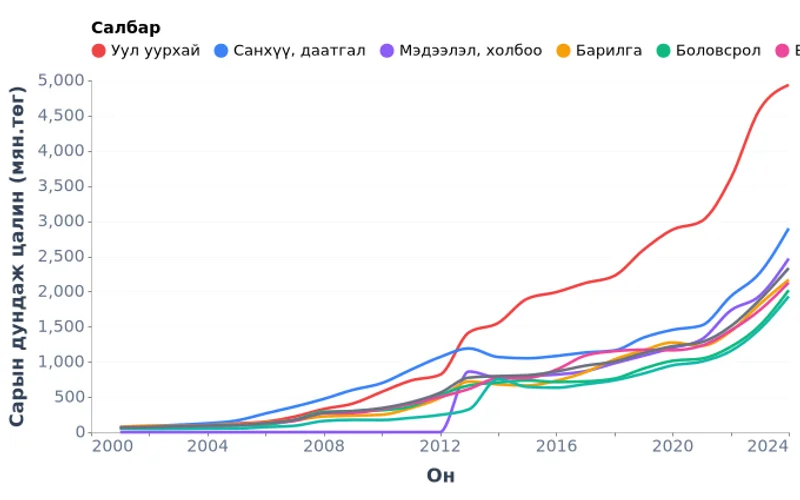
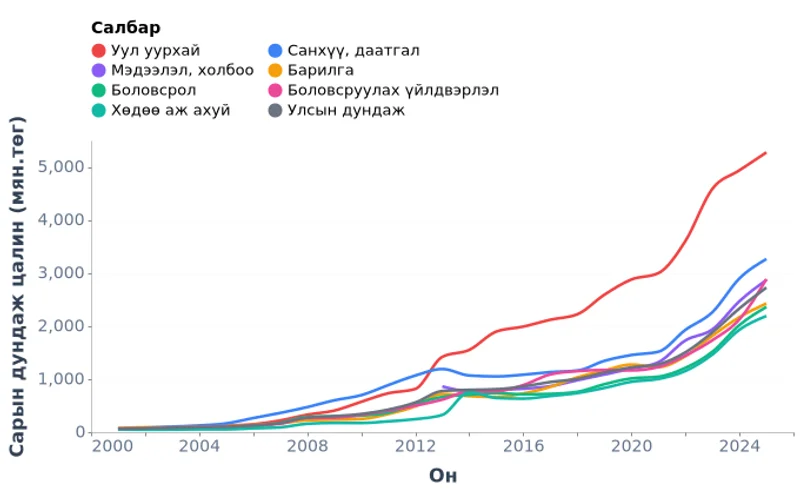
Refresh average-wages to 2025 (v2) (#168)
Regenerated the split from its parent's current raw data
(tools/versions/salary-average-national/v3, SEX=TOTAL; NSO updated
2026-05-04), which salary-average-national already uses:

- 8-sector chart CSVs: 192 -> 200 rows per language; all-sector CSVs:
  528 -> 550. Only 2025 rows were added; every 2001-2024 value matches
  v1 (no revisions). National average 2,726.9 thousand MNT in 2025.
- average-wages.xlsx rebuilt in its current bilingual layout
- EN/MN pages, chart descriptions: 2001-2024 -> 2001-2025;
  dataVersion 2, dataDate 2025-12-31
- Version snapshot tools/versions/average-wages/v2; registry v2 row,
  data_as_of/coverage 2025, update activity
- Definition: 25 years, row counts, the name-keyed group path since the
  2026-09-08 table switch, and the short-label <-> NSO-name mapping

Chart fix: IT & Communication has no data before 2013, but the blank
cells were drawn as 0 (the EN spec didn't parse the salary column as a
number; the MN calculate passed the empty string through). EN now
parses it as a number and MN uses toNumber(), so the line starts in
2013. Thumbnails regenerated for these two charts only.

diff --git a/tools/sources/nso-1212/datasets/average-wages.md b/tools/sources/nso-1212/datasets/average-wages.md
@@ -1,34 +1,56 @@
 # Average Wages by Sector
 
 ## Source Table
-- **Table ID**: `DT_NSO_0400_022V1.px`
+- **Table ID**: `DT_NSO_0400_022V1.px` (annual sub-table: by SEX, SECTOR, TIME ANNUAL; sibling V2 = quarterly, V3 = monthly)
 - **Sector**: Labour, business
 - **Subsector**: Wages
-- **Parent**: MONTHLY AVERAGE NOMINAL WAGES, by division of economic activities
+- **Parent**: MONTHLY AVERAGE NOMINAL WAGES, by division of economic activities (name-keyed group id)
+- **Parent dataset**: `salary-average-national` (registry `parent_id`; same NSO table, see its definition)
+- **Note (2026-09-08 table switch)**: the NSO catalog moved wage tables to name-string group ids; the flat `DT_NSO_0400_022V1.px` reference no longer resolves directly (HTTP 400). The table is fetched via the name-keyed group path `MONTHLY AVERAGE NOMINAL WAGES, by division of economic activities/DT_NSO_0400_022V1.px`. Coverage is unchanged (2001-2025, 22 sectors incl. National average, SEX split TOTAL/FEMALE/MALE).
 
 ## API Path
 ```
 GET /api/v1/{lang}/NSO/Labour%2C%20business/Wages/MONTHLY%20AVERAGE%20NOMINAL%20WAGES%2C%20by%20division%20of%20economic%20activities/DT_NSO_0400_022V1.px
 ```
 
-Note: This table is nested under a parent grouping. The URL must include the parent table name.
+Note: This table is nested under a parent grouping. The URL must include the parent table name; since the 2026-09-08 table switch that group is a name-keyed id, so always use the full group path above (never the bare `DT_NSO_0400_022V1.px`).
 
 ## Dimensions
 1. **Sex** (Хүйс): TOTAL, FEMALE, MALE
 2. **Sector** (Салбар): 22 economic sectors including National average
-3. **Year** (ОН): 2001-2024 (24 years)
+3. **Year** (ОН): 2001-2025 (25 years)
 
 ## Split: average-wages
 - **Filter**: Sex = TOTAL only, top 8 sectors
 - **Sectors**: Mining, Finance & Insurance, IT & Communication, Construction, Education, Manufacturing, Agriculture, National Average
 - **Format**: Long format (Sector, Year, Salary)
 - **Chart**: Multi-line chart showing wage trends over time
-- **Rows**: 8 sectors x 24 years = 192
+- **Rows**: 8 sectors x 25 years = 200
+
+### Sector labels (chart files)
+The 8-sector chart files use short labels (and this row order within each year); the NSO names are used in the `-all-` files.
+
+| EN label | NSO sector (EN) | MN label | NSO sector (MN) |
+|----------|-----------------|----------|-----------------|
+| Mining | Mining and quarrying | Уул уурхай | Уул уурхай, олборлолт |
+| Finance & Insurance | Financial and insurance activities | Санхүү, даатгал | Санхүүгийн болон даатгалын үйл ажиллагаа |
+| IT & Communication | Information and communication | Мэдээлэл, холбоо | Мэдээлэл, холбоо |
+| Construction | Construction | Барилга | Барилга |
+| Education | Education | Боловсрол | Боловсрол |
+| Manufacturing | Manufacturing | Боловсруулах үйлдвэрлэл | Боловсруулах үйлдвэрлэл |
+| Agriculture | Agriculture, forestry, fishing and hunting | Хөдөө аж ахуй | Хөдөө аж ахуй, ойн аж ахуй, загас барилт, ан агнуур |
+| National Average | National average | Улсын дундаж | Улсын дундаж |
 
 ## All data
 - **Filter**: Sex = TOTAL only, all 22 sectors
 - **Format**: Long format (Sector, Year, Salary)
-- **Rows**: 22 sectors x 24 years = 528
+- **Rows**: 22 sectors x 25 years = 550
+
+## Refresh
+- No separate fetch: regenerate from the parent's current raw files (`tools/versions/salary-average-national/v{N}/nso-annual-raw-{en,mn}.csv`, SEX = TOTAL; `Бүгд` in the MN file; MN sector names carry NSO indentation that must be stripped).
+- Row order: year ascending, then sector (label order above for the chart files, NSO table order for the `-all-` files). Values are kept as the raw strings (one decimal, e.g. `808.0`); missing values stay blank.
+- Downloads: the XLSX is the bilingual wide workbook ("English" and "Монгол" sheets) built from the `-all-` CSVs with the `tools/scripts/rebuild_downloads.py` helpers.
+- v2 (2026-10): extended 2001-2024 to 2001-2025 from `salary-average-national` v3 raw (NSO table updated 2026-05-04T16:27:24); no 2001-2024 value was revised.
 
 ## Related Datasets (Same Source Table)
 - `salary-average-national`: National average salary over time (single line area chart)
@@ -44,4 +66,4 @@ All three datasets use the same NSO table (DT_NSO_0400_022V1.px) but show differ
 ## Values
 - Unit: MNT thousands (1000s)
 - Monthly average nominal wages
-- Some sectors have missing data for earlier years (e.g., IT & Communication before 2005)
+- Some sectors have missing data for earlier years (e.g., IT & Communication has no values before 2013; the cells stay blank)
